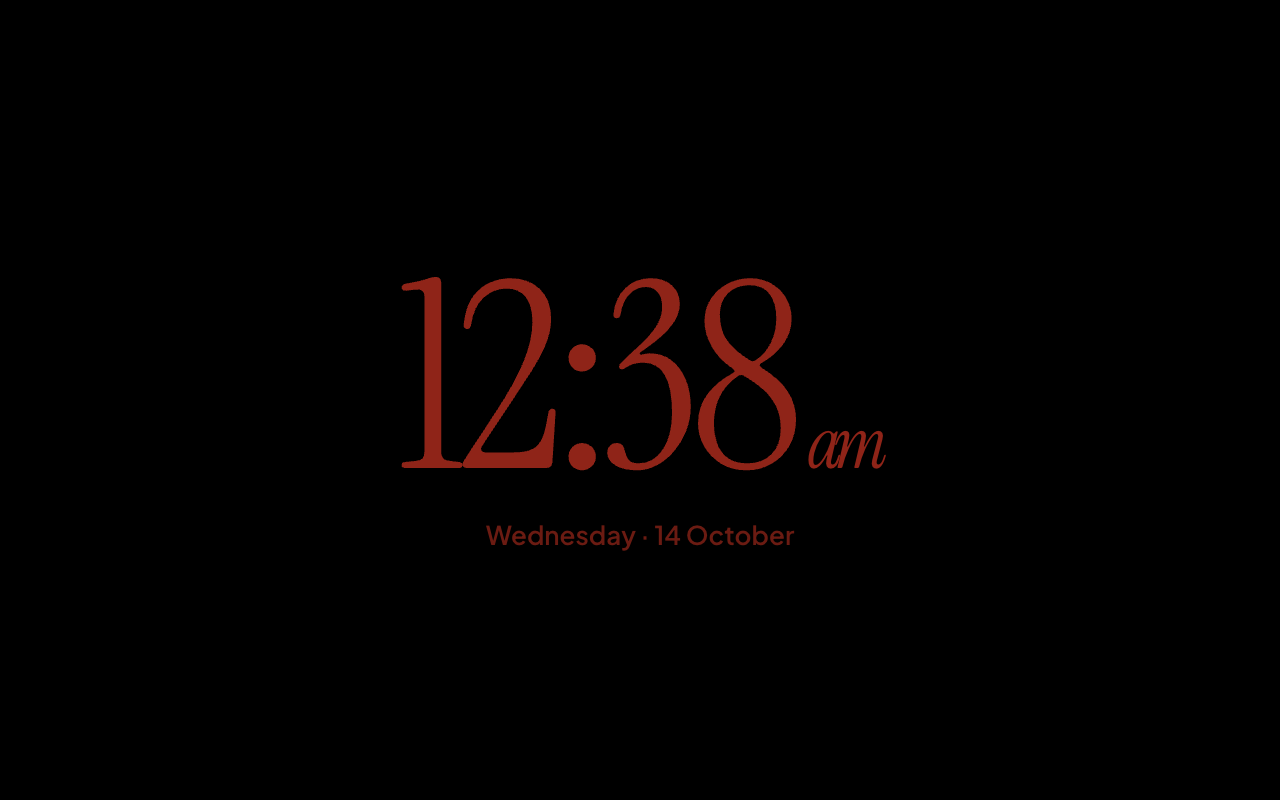
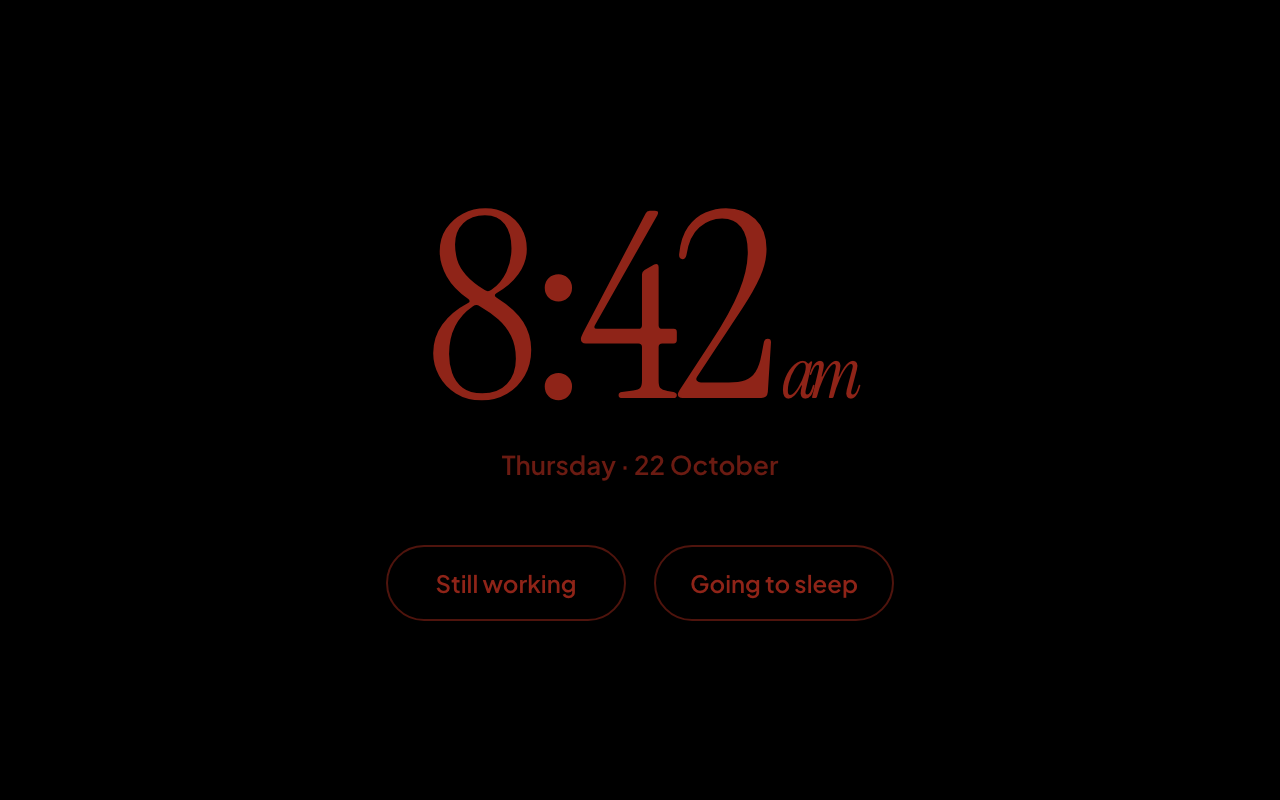
Night clock: "Still working" and "Going to sleep" buttons (#21)
* Night clock: "Still working" and "Going to sleep" buttons

Still working keeps the red clock away until midnight; Going to sleep
turns the screen off until 8 a.m. The choice lapses on its own and is
kept across a reload.

Closes #19

* Log the frame install of #20 and #21

* Remove conflict markers left in docs/design.md by the merge

---------

diff --git a/dashboard/src/night.js b/dashboard/src/night.js
@@ -1,7 +1,10 @@
 // Night: once nobody has touched the screen for a while, a dim red clock on black in the evening
 // (settings.night.clock until .off), then the screen fully off until morning (.off until .on).
 // A tap brings the dashboard back; it goes again after the same idle time. The clock drifts a
-// little against burn-in. The kiosk app turns the backlight off (GlanceKiosk.setScreenOn); without
+// little against burn-in. Two buttons on the clock pick how the evening goes: "Still working"
+// keeps the clock away until the screen-off hour, and "Going to sleep" turns the screen off now,
+// and again after each idle spell, until morning. The choice is kept across a reload and lapses
+// on its own, so the next evening starts as usual. The kiosk app turns the backlight off (GlanceKiosk.setScreenOn); without
 // it, as in a desktop browser, "off" is just black.
 // onShow(true/false) hears when night comes and goes, so live tiles can stop asking meanwhile.
 // busy() true (the Pomodoro timer running, or the Telugu screen in use) holds night off until
@@ -20,17 +23,48 @@ export function nightMode(now, cfg) {
   return null;
 }
 
+// The evening's choice: 'awake' until the next cfg.off hour, 'sleep' until the next cfg.on hour.
+export function choose(kind, now, cfg) {
+  const until = new Date(now);
+  until.setHours(kind === 'sleep' ? cfg.on : cfg.off, 0, 0, 0);
+  if (until <= now) until.setDate(until.getDate() + 1);
+  return { kind, until: +until };
+}
+
+// What night shows at `now` once the screen has sat idle: nightMode, unless tonight's choice (if
+// it hasn't lapsed) says otherwise.
+export function nightWant(now, cfg, choice) {
+  const mode = nightMode(now, cfg);
+  if (!choice || +now >= choice.until) return mode;
+  if (choice.kind === 'sleep') return 'off';
+  return mode === 'clock' ? null : mode;
+}
+
+const KEY = 'glance-night';
+function loadChoice() {
+  try {
+    const c = JSON.parse(localStorage.getItem(KEY));
+    return c && (c.kind === 'awake' || c.kind === 'sleep') && c.until > Date.now() ? c : null;
+  } catch (e) { return null; }
+}
+function saveChoice(c) {
+  try { localStorage.setItem(KEY, JSON.stringify(c)); } catch (e) { /* kept for this page only */ }
+}
+
 function setScreenOn(on) {
   try {
     if (window.GlanceKiosk) window.GlanceKiosk.setScreenOn(on);
   } catch (e) { /* not in the kiosk, or an older one */ }
 }
 
-export function mountNight(el, onShow, busy) {
+// onAwake() hears "Still working", to go back to Home.
+export function mountNight(el, onShow, busy, onAwake) {
   const cfg = settings.night;
-  let idle = 0, mode = null, forced = false;
+  let idle = 0, mode = null, forced = false, choice = loadChoice();
 
-  el.innerHTML = '<div class="night-inner"><div class="night-time serif"></div><div class="night-date"></div></div>';
+  el.innerHTML = '<div class="night-inner"><div class="night-time serif"></div><div class="night-date"></div>' +
+    '<div class="night-pick"><button class="night-btn" data-pick="awake">Still working</button>' +
+    '<button class="night-btn" data-pick="sleep">Going to sleep</button></div></div>';
   const inner = el.firstChild, time = inner.children[0], date = inner.children[1];
 
   function paint(now) {
@@ -64,23 +98,30 @@ export function mountNight(el, onShow, busy) {
   el.addEventListener('click', (e) => {
     e.stopPropagation();
     idle = 0;
-    hide();
+    const pick = e.target.closest('[data-pick]');
+    if (!pick) { hide(); return; }
+    choice = choose(pick.getAttribute('data-pick'), new Date(), cfg);
+    saveChoice(choice);
+    if (choice.kind === 'sleep') { forced = true; show('off'); } // dark now, even before 10 p.m.
+    else { hide(); onAwake(); }
   });
 
   setInterval(() => {
     idle++;
     const now = new Date();
     // Before network time after a power cut the hour means nothing; stay on the dashboard.
-    const want = clockIsSane(now, __BUILT_AT__) ? nightMode(now, cfg) : null;
+    const want = clockIsSane(now, __BUILT_AT__) ? nightWant(now, cfg, choice) : null;
     if (!mode && want && idle >= cfg.idleSeconds && !busy()) show(want);
     else if (mode && want && want !== mode) show(want);       // midnight: clock → off
     else if (mode && !want && !forced) hide();                // morning: back on its own
+    else if (mode === 'off' && forced && choice && +now >= choice.until) hide(); // slept till morning
   }, 1000);
 
-  // A power cut or the 3 a.m. reload during the off hours: stay dark rather than light the room.
-  // Otherwise make sure the backlight is on, in case the page went away while it was off.
+  // A power cut or the 3 a.m. reload during the off hours (or after "Going to sleep"): stay dark
+  // rather than light the room. Otherwise make sure the backlight is on, in case the page went
+  // away while it was off.
   const now = new Date();
-  if (clockIsSane(now, __BUILT_AT__) && nightMode(now, cfg) === 'off' && !busy()) show('off');
+  if (clockIsSane(now, __BUILT_AT__) && nightWant(now, cfg, choice) === 'off' && !busy()) show('off');
   else setScreenOn(true);
 
   return {

diff --git a/dashboard/test/night.test.js b/dashboard/test/night.test.js
@@ -1,0 +1,40 @@
+import { test } from 'node:test';
+import assert from 'node:assert/strict';
+import { nightMode, nightWant, choose } from '../src/night.js';
+
+const cfg = { clock: 22, off: 0, on: 8, idleSeconds: 120 };
+const at = (d, h, m = 0) => new Date(2026, 9, d, h, m);
+
+test('night by the hour: clock from 10 p.m., off from midnight to 8 a.m.', () => {
+  assert.equal(nightMode(at(14, 21, 59), cfg), null);
+  assert.equal(nightMode(at(14, 22), cfg), 'clock');
+  assert.equal(nightMode(at(15, 0), cfg), 'off');
+  assert.equal(nightMode(at(15, 7, 59), cfg), 'off');
+  assert.equal(nightMode(at(15, 8), cfg), null);
+});
+
+test('"Still working" keeps the clock away until midnight, then the screen goes off as usual', () => {
+  const c = choose('awake', at(14, 22, 30), cfg);
+  assert.equal(c.until, +at(15, 0));
+  assert.equal(nightWant(at(14, 23, 59), cfg, c), null);
+  assert.equal(nightWant(at(15, 0), cfg, c), 'off');
+  assert.equal(nightWant(at(15, 22), cfg, c), 'clock'); // the next evening as usual
+});
+
+test('"Going to sleep" means dark until 8 a.m., even before midnight', () => {
+  const c = choose('sleep', at(14, 22, 30), cfg);
+  assert.equal(c.until, +at(15, 8));
+  assert.equal(nightWant(at(14, 22, 31), cfg, c), 'off');
+  assert.equal(nightWant(at(15, 3), cfg, c), 'off');
+  assert.equal(nightWant(at(15, 8), cfg, c), null);
+  assert.equal(nightWant(at(15, 22), cfg, c), 'clock');
+});
+
+test('a choice made after midnight lasts until that morning, not the next', () => {
+  assert.equal(choose('sleep', at(15, 1), cfg).until, +at(15, 8));
+  assert.equal(choose('awake', at(14, 21), cfg).until, +at(15, 0));
+});
+
+test('no choice: night by the hour', () => {
+  assert.equal(nightWant(at(14, 22), cfg, null), 'clock');
+});

diff --git a/dashboard/src/style.css b/dashboard/src/style.css
@@ -817,6 +817,17 @@ button { font: inherit; color: inherit; background: none; border: 0; cursor: poi
 .night-time { font-size: 260px; line-height: 1; letter-spacing: -0.03em; }
 .night-time i { font-size: 72px; margin-left: 12px; }
 .night-date { margin-top: 8px; font-size: 26px; font-weight: 600; opacity: 0.75; }
+.night-pick { display: flex; justify-content: center; margin-top: 64px; }
+.night-btn {
+  width: 240px;
+  height: 76px;
+  margin: 0 14px;
+  border: 2px solid rgba(143, 36, 24, 0.55);
+  border-radius: 38px;
+  font-size: 24px;
+  font-weight: 600;
+  color: var(--night);
+}
 
 /* ------------------------------------------------------------------ ?diag */
 .diag {

diff --git a/dashboard/src/main.js b/dashboard/src/main.js
@@ -37,7 +37,7 @@ const setTrainsAsleep = mountTrains($('trains'), transit.trains);
 // at most).
 const focus = mountPomodoro($('pomodoro'), () => nav.go('pomodoro'));
 const letters = mountTelugu($('telugu'));
-const night = mountNight($('night'), setTrainsAsleep, () => focus.busy() || letters.busy());
+const night = mountNight($('night'), setTrainsAsleep, () => focus.busy() || letters.busy(), () => nav.go('home'));
 const nextPhoto = startPhotos($('photo'));
 // The side bar lists the screens in this order, Home first.
 const nav = mountNav($('bar'), $('edge'), $('scrim'), {

diff --git a/docs/frame.md b/docs/frame.md
@@ -210,3 +210,4 @@ Record every change with its undo, newest last. All `su 0` commands run through 
 | 2026-10-21 | Kiosk 0.6 rebuilt again from `12-time-tracking` (PR #16: the goal in hours of focus; Time stays up while tracking), the same way, while the owner had a tracker running. 40 photos kept; the log (5 entries) identical before and after, and the tracker carried on through the reinstall | As above |
 | 2026-10-21 | Kiosk 0.6 rebuilt again from `12-time-tracking` (PR #16: focus in every metric, reminders for doom scrolling and breaks), the same way, with the owner's tracker running. 40 photos kept; the log (6 entries) identical before and after; the app came back on Time with the tracker still running | As above |
 | 2026-10-21 | Kiosk 0.6 rebuilt again from `12-time-tracking` (PR #16: Chores count as focus), the same way, with the owner's tracker running. 40 photos kept; the log (6 entries) identical before and after | As above |
+| 2026-10-24 | Kiosk 0.6 rebuilt from a local merge of `main`, PR #20 (`18-screen-order`, side bar order) and PR #21 (`19-night-choices`, night clock buttons), the same way. The frame first didn't show up on USB at all; a restart and another hub port fixed it. 40 photos kept; the Time log (23 entries) identical before and after. On the frame: the bar reads Home, Time, Week, Telugu, Weather, Transit; a tap on the time brings the red clock with both buttons, matching the Mac. The buttons themselves were left for the owner to try | Rebuild from `main` with `npm run frame:build` and `adb install -r kiosk/build/glance-kiosk.apk` |

diff --git a/docs/decisions.md b/docs/decisions.md
@@ -19,3 +19,4 @@ full. Entries marked *(backfilled)* were recorded after the fact, dated from git
 - 2026-10-21 — The Time screen's daily goal is hours of focus, not Pomodoros, so tracked focus time counts too; a full Pomodoro counts as an hour with its break (the owner's rule: 2 Pomodoros and an hour tracked make 3 of 4). While tracking, the frame stays on Time but night still comes, so a forgotten tracker can't keep the screen on.
 - 2026-10-21 — Every Time metric counts focus only (the focus categories, a full Pomodoro as an hour with its break): the streak is days with an hour of focus, all time is hours of focus. Doom scrolling and breaks are nudged with a chime and an orange pulse every 10 minutes, counted from when the tracker started, and never for reminders a reload skipped.
 - 2026-10-21 — Chores count as focus on the Time screen, at the owner's request: Recruiting, GEICO, Masters, Projects and Chores; doom scrolling, breaks, the bathroom and Other don't.
+- 2026-10-22 — The night clock asks how the evening goes (#19): "Still working" keeps it away until the screen-off hour, "Going to sleep" turns the screen off now and after each idle spell until morning. The choice lapses at a set time rather than being cleared, so the next evening needs no reset, and it's kept in `localStorage` so a reload or power cut doesn't light the room. See `dashboard/src/night.js`.

diff --git a/README.md b/README.md
@@ -70,7 +70,10 @@ keep running for weeks with nobody touching it.
   time brings the night clock now.
 - **Night.** From 10 p.m., two idle minutes turn the screen into a dim red clock on black that
   drifts a few pixels against burn-in. From midnight to 8 a.m. the backlight goes fully off. A
-  tap brings the dashboard back either way. By day, Home steps a few pixels every 10 minutes so
+  tap brings the dashboard back either way. Two buttons on the clock: **Still working** goes back
+  to Home with no clock until midnight; **Going to sleep** turns the screen fully off until
+  8 a.m. (a tap wakes it, and it goes dark again after two idle minutes). The next evening starts
+  as usual. By day, Home steps a few pixels every 10 minutes so
   nothing sits on the same pixels all day.
 - **Runs unattended.** It reloads itself if it fails to start and once a day at 3 a.m., and it
   waits out the frame's clock reading 1970 after a power cut.

diff --git a/docs/architecture.md b/docs/architecture.md
@@ -26,6 +26,7 @@ Stored on the frame:
 | `localStorage` `glance-weather` | The last forecast that arrived and when, shown after a reload during an outage (up to 7 days) |
 | `localStorage` `glance-calendars` | Each calendar's last occurrences and when they arrived (up to 7 days) |
 | `localStorage` `glance-pomodoro` | The Time screen's timer and log of tracked time and Pomodoros (format v2 in `src/pomodoro-data.js`; v1, Pomodoros only, still reads) |
+| `localStorage` `glance-night` | Tonight's choice on the night clock ("Still working" or "Going to sleep") and when it lapses (the next midnight or 8 a.m.) |
 | `/sdcard/Android/data/app.glance.kiosk/files/pomodoro.json` | The same, as a backup written by the kiosk (`GlanceFiles`) |
 | `/sdcard/Android/data/app.glance.kiosk/files/photos/` | Your photos, resized, pushed by `npm run frame` |
 | The app's cache, `img/` | Public pictures fetched through the kiosk's `/img`, kept a week |

diff --git a/docs/design.md b/docs/design.md
@@ -76,6 +76,9 @@ All in [`dashboard/src/style.css`](../dashboard/src/style.css) as custom propert
 - **Side bar:** 120 px, hidden off the left edge with a faint 5 px handle showing; 100 px tall
   buttons (icon and label), the current screen tinted gold. Order, most used first: Home, Time,
   Week, Telugu, Weather, Transit. It slides in and out (transform only).
+- **Night clock:** `--night` red on black, nothing brighter. Under the date, two outlined pill
+  buttons (240 × 76 px, red text, a faint red border): *Still working* and *Going to sleep*. They
+  drift with the clock.
 - **Day sheet:** a panel over a dimmed screen: the day in serif, 76 px round ‹ › buttons, then each
   event with its time in its calendar's colour and a bar of the same colour.
 - **Weather warning:** the temperature pill turns red (`rgba(191, 13, 62, 0.18)` with `#ffd6df`
